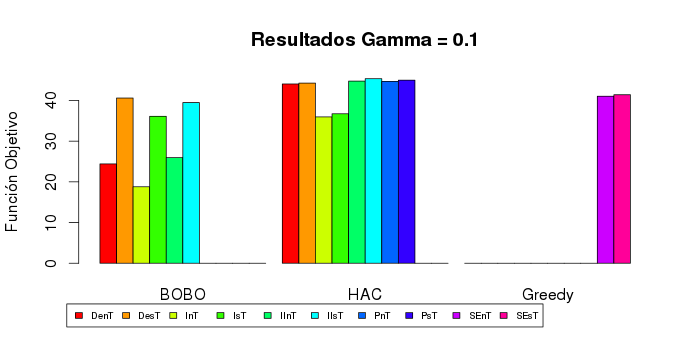
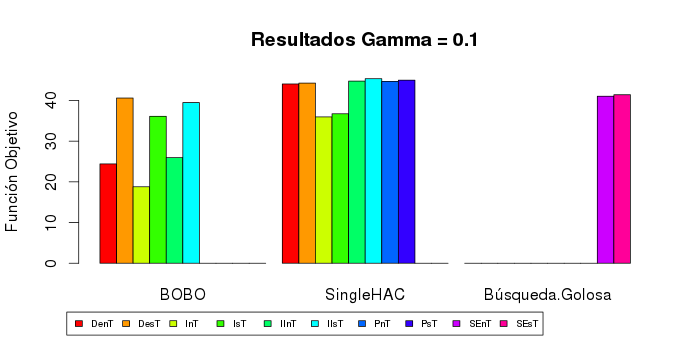
informe

Changed region(s): [[0.091, 0.7879, 0.8801, 0.9394]]

diff --git a/informe/resultados.tex b/informe/resultados.tex
@@ -1,12 +1,19 @@
-\section{Búsquedas de Artículos}
-En la base de datos de \cite{dataDrive} hay $7777$ artículos. Para las búsquedas se requiere que los artículos cuenten con la información del autor, el topic profile y el venue. Los artículos que no cuentan con alguno de estos datos, no se tuvieron en cuenta para las búsquedas. De los primeros resultados obtenidos se pudieron observar dos comportamientos no deseados, \textit{soluciones similares para distintos gammas} y \textit{Soluciones con bundles con un solo elemento} a continuación se explicará con más detalle estos resultados.
+\section{Búsquedas de Papers}\label{res:busPaper}
+Generar una solución, en el que cada bundle contenga artículos similares que se hayan presentado en distintas conferencias.\\
+\begin{itemize}
+  \item \textbf{Similitud}: Función que compara el perfil de cada artículo.
+  \item \textbf{Complementariedad}: Lugar dónde fue presentado.
+\end{itemize}
+
+La base de datos de \cite{dataDrive} contiene $7777$ items de papers, para las búsquedas se requiere que ellos cuenten con la información del autor, de su perfil como paper (\textbf{topic profile}) y su lugar de publicación (\textbf{venue}). Los papers que no cuentan con alguno de estos datos no se tuvieron en cuenta para las búsquedas y fueron eliminados. A partir de las primeras ejecuciones y los resultados obtenidos se pudieron observar dos comportamientos no deseados, \textit{soluciones similares para distintos valores de $\gamma$} y \textit{soluciones con bundles con un solo elemento}, a continuación explicamos con más detalle estos comportamientos.\\
+Al finalizar la depuración de papers que consideramos afectaban los resultados obtenidos, se obtuvieron $3954$ para realizar todas las pruebas mencionadas.
 \subsection{Soluciones similares para distintos gammas}
-De los resultados obtenidos se destacó que el valor de la función objetivo era muy cercano al máximo y que para todos los gammas los resultados eran muy similares. Del análisis que se realizó a los resultados, se detectó que los bundles contenían en su mayoría artículos de un solo tópico. Por lo tanto el intra de los bundles generados es el máximo y así también la distancia con los otros bundles.\\
-Al haber tantos artículos con un solo tópico, los resultados que se generan no permiten realizar una correcta comparación de las heurísticas. Por lo tanto a fines de comparar las implementaciones generadas y obtener resultados más interesantes, se decidió no tener en cuenta a los artículos con un solo tópico.
+A partir de las ejecuciones realizadas y su primer análisis se destaca que el valor de la función objetivo es muy cercano a la cota máxima (ver \ref{conc:valoresOptimos}) y que para todos los valores de $\gamma$ probados las soluciones eran muy similares. Un segundo análisis más detallado que se realizó a los bundles de papers, se detectó que muchos de ellos contenían papers de un solo tópico, por lo tanto el valor cohesivo (\textbf{intra}) de los bundles generados es el máximo y así también la distancia con los otros bundles.\\
+Al contar con muchos papers con un solo tópico las soluciones obtenidas no permiten realizar una correcta comparación de las heurísticas, por lo tanto a fines de comparar las implementaciones mencionas y obtener bundles más interesantes, se decidió eliminar los papers que contengan un solo un tópico.
 \subsection{Soluciones con bundles unitarios}
-Los resultados de las búsquedas en las que se prioriza el inter, se generaban muchos bundles de uno o de dos elementos. Este comportamiento no era el deseado porque no se utilizaba todo el presupuesto.\\
-Esto sucede porque en la etapa de generación de bundles de PAC. En el caso que los artículos $A_1$, $A_2$, $A_3$, $A_4$ y $A_5$ con distribución del tópico $t$ mayor a 0.7 y el venue de $A_1$ es $V_1$, de $A_2$ es $V_2$ y de  $A_3$, $A_4$ y $A_5$ es $V_3$. Al generarse los bundles de manera jerárquica, puede darse que en un paso existan el bundle $B_1$ con los artículos $A_1$ y $A_3$ el $B_2$ con $A_2$ y $A_4$ y $B_3$ con $A_5$. Con esta configuración no se pueden juntar los bundles porque se estaría violando la regla de la complementariedad, pero se podría haber generado un bundle con mayor intra si estaría un artículo de cada venue por ejemplo un bundle que con $A_1$, $A_2$ y $A_3$. \\
-Para optimizar la generación de los bundles fue por lo que se propuso realizar la búsqueda tabú al finalizar la etapa del Produce.
+Las soluciones obtenidas mediante las búsquedas en las que se prioriza que los bundles sean más cohesivos (\textbf{valor inter}), se generaban muchos conjuntos de uno o dos elementos únicamente, tal comportamiento no era el deseado porque no se estaba utilizando todo el presupuesto.\\
+La causa del comportamiento se debe a que en la etapa de generación de bundles \texttt{PAC}. Por ejemplo supongamos el caso que los artículos $A_1$, $A_2$, $A_3$, $A_4$ y $A_5$ con distribución del tópico $t$ mayor a $0.7$ y su lugar de presentación (\textbf{venue}) de $A_1$ es $V_1$, de $A_2$ es $V_2$ y de $A_3$, $A_4$ y $A_5$ es $V_3$. Al generarse los bundles de manera jerárquica, puede darse que en un paso existan el bundle $B_1$ con los artículos $A_1$ y $A_3$ el $B_2$ con $A_2$ y $A_4$ y $B_3$ con $A_5$. Con esta configuración no se pueden juntar los bundles porque se estaría violando la regla de la complementariedad, pero se podría haber generado un bundle más cohesivo (\textbf{mayor intra}) si se hubiera elegido el siguiente bundle $A_1$, $A_2$ y $A_3$.\\
+Este fue un problema que no pudimos corregir en la generación de bundles, porque nos hubiera obligado a realizar una estrategía de \texttt{backtracking} que afectaría mucho la complejidad temporal, por eso fue que se propuso realizar una Búsqueda Tabú al finalizar la etapa del Produce con los bundles ya generados e intentar combinarlos antes de la etapa de selección.
 \subsection{Resultados}
 De todos los algorimos descriptos en las secciones anteriores las pruebas realizadas fueron usando \texttt{SingleHAC}, \texttt{Búsqueda Golosa} y \texttt{BOBO}. Al terminar su ejecución se aplicó una búsqueda Tabú para intentar mejorar la solución obtenida.\\
 \Solucion
@@ -26,7 +33,7 @@ De la tabla \ref{res:tbl-cant-bundles} se observa la cantidad de bundles que gen
     Algoritmo & Bundles Generados \\
     \hline
     SingleHAC & $2378$ \\
-    Greedy & $10$ \\
+    Búsqueda Golosa & $10$ \\
     BOBO-100 & $100$ \\
     \hline
     \end{tabular}
@@ -36,7 +43,19 @@ De la tabla \ref{res:tbl-cant-bundles} se observa la cantidad de bundles que gen
 \end{table}
 \newpage
 
-En los gráficos \ref{res:img-papers-agr-gamma01} y \ref{res:img-papers-agr-gamma09} se muestran agrupados por algoritmo de resolución las diferentes estrategias usadas en cada caso y los valores de la función objetivo alcanzado toma los dos extremos del valor de $\gamma$ $0.1$ y $0.9$.
+En los gráficos \ref{res:img-papers-agr-gamma01} y \ref{res:img-papers-agr-gamma09} se muestran agrupados por algoritmo de resolución las diferentes estrategias usadas en cada caso y los valores de la función objetivo alcanzado toma los dos extremos del valor de $\gamma$ $0.1$ y $0.9$. Cada color corresponde a una estratégia diferente de selección de acuerdo a la siguiente nomenclatura.
+\begin{itemize}
+ \item DenT: Denset Subgraph sin la aplicación de la Búsqueda Tabú.
+ \item DesT: Denset Subgraph con la aplicación de la Búsqueda Tabú.
+ \item InT: Intra sin la aplicación de la Búsqueda Tabú.
+ \item IsT: Intra con la aplicación de la Búsqueda Tabú.
+ \item IInT: Intra Inter sin la aplicación de la Búsqueda Tabú.
+ \item IIsT: Intra Inter con la aplicación de la Búsqueda Tabú.
+ \item PnT: Proportional sin la aplicación de la Búsqueda Tabú.
+ \item PsT: Proportional con la aplicación de la Búsqueda Tabú.
+ \item SEnT: Sin estratégia sin la aplicación de la Búsqueda Tabú.
+ \item SEsT: Sin estratégia con la aplicación de la Búsqueda Tabú.
+\end{itemize}
 
 \begin{figure}[H]
   \centering
@@ -159,35 +178,41 @@ En este caso al ser muy grande la diferencia entre entre la utilización de la h
   \caption{Distribución de los papers por perfil $\gamma$ = $0.9$ y BOBO - Intra Inter con búsqueda Tabú}
   \label{res:img-papers-bubbles-gamma09-hac-intra-inter-bobo}
 \end{figure}
+\newpage
+\section{Búsqueda de Autores}
+Solución de bundles en el que cada uno contiene autores similares de distinta universidad de afiliación.\\
+\begin{itemize}
+  \item \textbf{Similitud}: Función que compara el perfil de los autores.
+  \item \textbf{Complementariedad}: Universidad de pertenencia del autor.
+\end{itemize}
 
-\section{Autores}
-\colorbox{red}{RE HACER DE ACA EN ADELANTE}\\
-Se generaron soluciones con las siguientes características:\\
+La instancia elegida, luego de la depuración mencionada en \ref{res:busPaper}, cuenta con $5577$ autores en condiciones de ser elegidos por los algoritmos implementados.\\
+Al igual que con las búsquedas de papers realizamos las mismas ejecuciones con los mismos parámetros, es decir, se generaron soluciones con las siguientes características:\\
 \Solucion
 {}
-{simple y proporcional}
-{\texttt{SingleHAC}, \texttt{EfficientHAC} y \texttt{Greedy}}
+{\texttt{SingleHAC}, \texttt{Búsqueda Golosa} y \texttt{BOBO-100}}
+{Denset Subgraph, Intra, Intra-Inter, Proportional (no aplican a la búsqueda golosa)}
 {$\in$ $(0,1; 0,3; 0,5; 0,7; 0,9)$}
 {10}
 {5}
 
-En los siguientes gráficos se visualiza los resultados obtenidos para $\gamma$ 0.1 y 0.9. Cada nodo representa un bundle y los ejes el valor de la similitud entre cada uno de ellos. La línea más 
-gruesa indica un mayor grado de similitud. En cuanto a los vértices al acercarse al azul el valor 
-de la intra es menor y al rojo mayor.
+\begin{figure}[H]
+  \centering
+    \includegraphics[width=0.8\textwidth]{resultados/authors/Graficos_agrupados/gamma01-autores.png}
+  \caption{Función Objetivo $\gamma$ = $0.1$ vs Algoritmos de resolución}
+  \label{res:img-autores-agr-gamma01}
+\end{figure}
 
+\begin{figure}[H]
+  \centering
+    \includegraphics[width=0.8\textwidth]{resultados/authors/Graficos_agrupados/gamma09-autores.png}
+  \caption{Función Objetivo $\gamma$ = $0.9$ vs Algoritmos de resolución}
+  \label{res:img-autores-agr-gamma09}
+\end{figure}
 
-Tanto para las soluciones generadas por \texttt{SingleHAC} como por \texttt{EfficientHAC} y con cualquier estrategia de selección, todas las soluciones formaron los mismos bundles a pesar de la 
-variación del parámetro $\gamma$. Esto se puede ver en los gráficos ya que todos los bundles tienen el mayor valor posible para la similitud intra y ningún bundle tiene relación con el 
-resto.\\
-En parte se debe a que existen $40000$ relaciones de similitud con valor uno. Con la heurística Produce and Choose, al momento de producir no se tiene en cuenta el $\gamma$ por lo tanto 
-para todos los $\gamma$ en la etapa de producción se producen los mismos bundles.\\
-Se realizaron otras búsquedas de soluciones, excluyendo a cinco de los autores que se encuentran presentes en todas las soluciones. Pero aún de esta manera en los nuevos resultados obtenidos se 
-repite el mismo comportamiento que antes.\\
-Además como veremos en \ref{conc:compDifAlgo} los resultados para las ejecuciones con los algoritmos jerárquicos se encuentran en los óptimos.
-%Por otro lado todas las soluciones generadas por el algoritmo \texttt{HAC} prácticamente no 
-%comparten bundles similares con las demás soluciones, ni siquiera autores similares en toda la 
-%solución.
-
+El comportamiento de las ejecuciones fueron muy similares a las que obtuvimos en la búsqueda de papers, la utilización de la Búsqueda Tabú mejoró sustancialmente el algoritmo \texttt{BOBO} en todos sus variantes. En el caso de \texttt{SingleHAC}, solo mejoró con la estratégia de selección \texttt{Proportional}. Casualmente fue la única estratégia que tuvo un comportamiento diferente en relación a la búsqueda de papers, en la cuál su función objetivo siempre tuvo valores mayores o iguales a por ejemplo la selección \texttt{INTRA} y en este caso fue menor o igual. Igualmente las difrencias en términos de valor son mínimas y se deben a la conformación de los perfiles de los elementos.\\
+Como se menciona anteriormente, al no comportarse de una manera diferente a la búsqueda de papers no incluímos los gráficos ya que sería mostrar lo mismo.
+\newpage
 \section{Búsqueda con perfil específico}
 En una primera aproximación para realizar esta búsqueda solo se modifico la generación de bundles, 
 lo cuál, si bien generó resultados diferentes al algoritmo original, no se veía reflejado en los 

diff --git a/informe/busquedas.tex b/informe/busquedas.tex
@@ -9,16 +9,12 @@ Por lo establecido en \cite{compositeRetrival} para las búsquedas se deben real
 Para todas las búsquedas, sin importar el ítem que sea (artículo, autores o universidades),  se definió que el costo de cada ítem sea de una unidad y que el presupuesto para cada búsqueda es de cinco unidades. Por lo que en todos los resultados se obtienen bundles que contienen como máximo cinco ítems; además se deicidió que sean diez los bundles devueltos en cada búsqueda. El motivo es para que sea fácil para un humano valorizar el resultado propuesto. Entonces de aquí en adelante para cada criterio de búsqueda se deben definir únicamente la función de similitud y la propiedad de complementariedad.\\
 Como se mencionó anteriormente, en la base de datos cada artículo cuenta con su \texttt{Topic Profile}. El \texttt{Topic Profile} define el perfil de cada artículo asignándole un porcentaje a cada tópico que se hace referencia. En el caso del artículo \texttt{A Cognitive-Based Mechanism for Constructing Software Inspection Teams} el \texttt{Topic Profile} se compone por los tópicos  REQUIREMENTS, RELIABILITY, TESTING y SOFTWARE QUALITY el porcentaje de cada uno de estos es 71.43 \%, 17.86 \%, 7.14 \% y 3.57 \% respectivamente. \\
 De los autores no se cuenta con una información directa que defina el perfil. Por lo tanto el perfil de los autores se genera a partir de los artículos que escribieron. Para definir el perfil de las universidades se aplicó el perfil de los autores definidos anteriormente. Más adelante se verá como se utilizan los perfiles para definir la función de similitud entre los ítems.\\
-A continuación se detallan las consultas realizadas en este trabajo:
-\section{Artículos de diferentes conferencias}\label{bus:papSimDisLug}
-Generar una solución, en el que cada bundle contenga artículos de tópicos similares que se hayan presentado en distintas conferencias.\\
-
+A continuación se detallan las consultas realizadas en este trabajo.\\
 Se utilizaron los siguientes criterios a las consultas que se hicieron en la base de datos, en los cuales la función costo para todos los elementos se defino con la constante 1 y el presupuesto de 5. Se decidió así porque no tiene sentido asociarle un costo a los artículos, autores, universidades y solo nos interesa que el bundle tengo como máximo un número fijo de elementos. \\
 Entonces de aquí en adelante para cada criterio solo resta definir la función de similitud y la propiedad de complementariedad.
 
-\section{Artículos de diferentes conferencias}\label{bus:papSimDisLug}
+\section{Papers de diferentes conferencias}\label{bus:papSimDisLug}
 Generar una solución, en el que cada bundle contenga artículos similares que se hayan presentado en distintas conferencias.\\
-
 \begin{itemize}
   \item \textbf{Similitud}: Función que compara el perfil de cada artículo.
   \item \textbf{Complementariedad}: Lugar dónde fue presentado.

diff --git a/informe/conclusiones.tex b/informe/conclusiones.tex
@@ -12,7 +12,7 @@ pero a la vez observamos que la relación interbundles es mejor las soluciones d
 implementación \texttt{EfficientHAC} fue muy superior pero la relación interbundles en el algoritmo 
 \texttt{Greedy} se ve que fue mejor, logrando soluciones mas interdependientes.
 
-\section{Valores cercanos al óptimo}
+\section{Valores cercanos al óptimo}\label{conc:valoresOptimos}
 Dada la función que se está intentando maximizar $$\displaystyle\sum_{1 \leq i \leq k} 
 \displaystyle\sum_{u,v \in S_{i}} \gamma s(u,v)\ 
 +\ \displaystyle\sum_{1 \leq i \leq j \leq k} (1-\gamma) (1 - \displaystyle\max_{u \in S_{1}, v 
